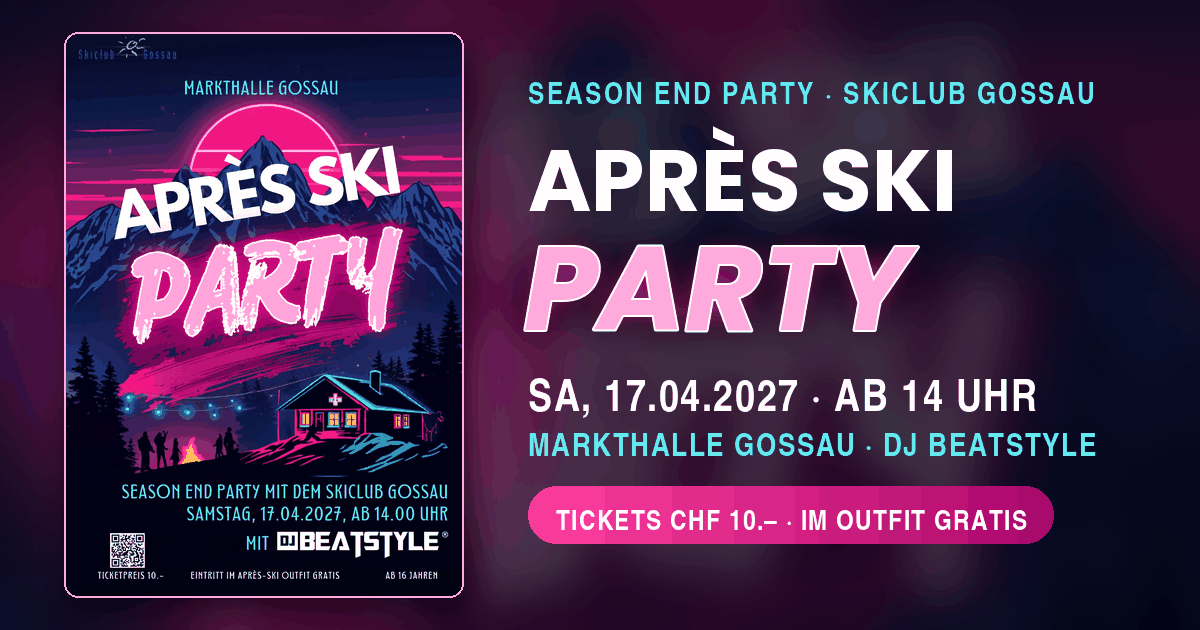
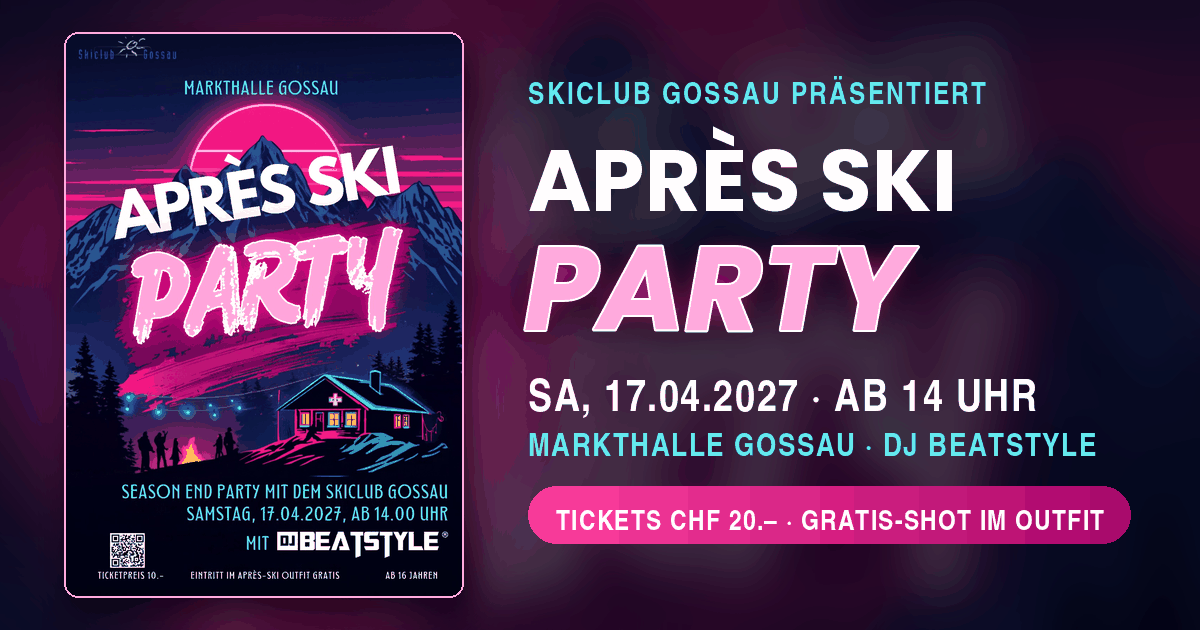
Update party website content and assets

diff --git a/index.html b/index.html
@@ -4,11 +4,11 @@
   <meta charset="UTF-8">
   <meta name="viewport" content="width=device-width, initial-scale=1.0, viewport-fit=cover">
   <title>Après-Ski Party Gossau | 17. April 2027</title>
-  <meta name="description" content="Season End Après-Ski Party des Skiclub Gossau am Samstag, 17. April 2027, ab 14 Uhr in der Markthalle Gossau. Mit DJ Beatstyle. Tickets CHF 10.–, im Après-Ski-Outfit gratis.">
+  <meta name="description" content="Après-Ski Party des Skiclub Gossau am Samstag, 17. April 2027, ab 14 Uhr in der Markthalle Gossau. Mit DJ Beatstyle. Tickets CHF 20.–, Gratis-Shot im Après-Ski-Outfit.">
   <link rel="canonical" href="https://apresskipartygossau.ch/">
   <meta property="og:type" content="website">
   <meta property="og:title" content="Après-Ski Party Gossau | 17. April 2027">
-  <meta property="og:description" content="Season End Party mit dem Skiclub Gossau: Sa, 17.04.2027, ab 14 Uhr, Markthalle Gossau. Mit DJ Beatstyle. Tickets CHF 10.–, im Après-Ski-Outfit gratis.">
+  <meta property="og:description" content="Après-Ski Party mit dem Skiclub Gossau: Sa, 17.04.2027, ab 14 Uhr, Markthalle Gossau. Mit DJ Beatstyle. Tickets CHF 20.–, Gratis-Shot im Après-Ski-Outfit.">
   <meta property="og:url" content="https://apresskipartygossau.ch/">
   <meta property="og:locale" content="de_CH">
   <meta property="og:image" content="https://apresskipartygossau.ch/share-image.png">
@@ -21,8 +21,8 @@
   {
     "@context": "https://schema.org",
     "@type": "Event",
-    "name": "Après-Ski Party Gossau – Season End Party",
-    "description": "Season End Après-Ski Party des Skiclub Gossau mit DJ Beatstyle in der Markthalle Gossau. Im kompletten Après-Ski-Outfit ist der Eintritt gratis.",
+    "name": "Après-Ski Party Gossau",
+    "description": "Après-Ski Party des Skiclub Gossau mit DJ Beatstyle in der Markthalle Gossau. Wer im Après-Ski-Outfit kommt, erhält einen Gratis-Shot.",
     "startDate": "2027-04-17T14:00:00+02:00",
     "endDate": "2027-04-18T01:00:00+02:00",
     "eventStatus": "https://schema.org/EventScheduled",
@@ -54,7 +54,7 @@
     },
     "offers": {
       "@type": "Offer",
-      "price": "10",
+      "price": "20",
       "priceCurrency": "CHF",
       "availability": "https://schema.org/InStock",
       "url": "https://eventfrog.ch/de/p/partys/disco/season-end-party-skiclub-gossau-gossau-7510725504757988831.html"
@@ -147,7 +147,7 @@
       </h1>
     </div>
 
-    <p class="hero-sub">Season End Party mit dem Skiclub Gossau</p>
+    <p class="hero-sub">Präsentiert vom Skiclub Gossau</p>
     <p class="hero-when"><time datetime="2027-04-17T14:00">Samstag, 17.04.2027, <strong>ab 14.00 Uhr</strong></time></p>
     <p class="hero-dj"><span>mit</span><img class="hero-dj-logo" decoding="async" width="1724" height="266" src="dj-beatstyle-logo.svg" alt="DJ Beatstyle"></p>
 
@@ -156,8 +156,8 @@
     </div>
 
     <ul class="hero-facts">
-      <li>Ticket <strong>CHF 10.–</strong></li>
-      <li>Im Après-Ski-Outfit <strong>gratis</strong></li>
+      <li>Ticket <strong>CHF 20.–</strong></li>
+      <li><strong>Gratis-Shot</strong> im Après-Ski-Outfit</li>
       <li><strong>Ab 16</strong> Jahren</li>
     </ul>
   </div>
@@ -188,15 +188,6 @@
         <div class="sponsor-card">
           <img decoding="async" loading="lazy" width="440" height="141" src="sponsoren/horber-innenausbau.png" alt="Horber Innenausbau, Gossau">
         </div>
-        <div class="sponsor-card"><span class="sponsor-logo">SPONSOR<br>2</span></div>
-        <div class="sponsor-card"><span class="sponsor-logo">SPONSOR<br>3</span></div>
-        <div class="sponsor-card"><span class="sponsor-logo">SPONSOR<br>4</span></div>
-        <div class="sponsor-card"><span class="sponsor-logo">SPONSOR<br>5</span></div>
-        <div class="sponsor-card"><span class="sponsor-logo">SPONSOR<br>6</span></div>
-        <div class="sponsor-card"><span class="sponsor-logo">SPONSOR<br>7</span></div>
-        <div class="sponsor-card"><span class="sponsor-logo">SPONSOR<br>8</span></div>
-        <div class="sponsor-card"><span class="sponsor-logo">SPONSOR<br>9</span></div>
-        <div class="sponsor-card"><span class="sponsor-logo">SPONSOR<br>10</span></div>
       </div>
       <p class="sponsor-note">Interessiert an einem Sponsoring? Melde dich unter <a href="mailto:medien@skiclub-gossau.ch">medien@skiclub-gossau.ch</a>.</p>
     </div>
@@ -206,14 +197,14 @@
     <div class="wrap">
       <div class="reveal">
         <div class="title-bar"></div>
-        <div class="eyebrow">Season End Party</div>
+        <div class="eyebrow">Après-Ski Party</div>
         <h2 class="section-title">Alle Infos auf<br>einen Blick.</h2>
       </div>
 
       <div class="event-details reveal">
         <div class="detail"><div class="detail-label">Datum</div><div class="detail-value">Sa, 17.04.2027</div></div>
         <div class="detail"><div class="detail-label">Zeit</div><div class="detail-value">14:00 – 01:00</div></div>
-        <div class="detail"><div class="detail-label">Eintritt</div><div class="detail-value">CHF 10.–</div><div class="detail-note">Im Après-Ski-Outfit gratis</div></div>
+        <div class="detail"><div class="detail-label">Eintritt</div><div class="detail-value">CHF 20.–</div><div class="detail-note">Gratis-Shot im Après-Ski-Outfit</div></div>
       </div>
 
       <div class="map-section reveal" id="location">
@@ -256,7 +247,7 @@
                  src="flyer/apres-ski-party-2027-flyer-800.jpg"
                  srcset="flyer/apres-ski-party-2027-flyer-800.jpg 800w, flyer/apres-ski-party-2027-flyer.jpg 1131w"
                  sizes="(max-width: 820px) min(360px, 90vw), 400px"
-                 alt="Flyer: Après Ski Party – Season End Party mit dem Skiclub Gossau, Samstag, 17.04.2027, ab 14.00 Uhr, Markthalle Gossau, mit DJ Beatstyle. Ticketpreis 10.–, Eintritt im Après-Ski-Outfit gratis, ab 16 Jahren.">
+                 alt="Flyer der Après-Ski Party Gossau: Samstag, 17.04.2027, ab 14.00 Uhr, Markthalle Gossau, mit DJ Beatstyle.">
           </a>
           <figcaption>Zum Vergrössern aufs Bild tippen</figcaption>
         </figure>
@@ -295,8 +286,8 @@
         <img loading="lazy" decoding="async" class="ticket-emblem" src="party-emblem.svg" width="130" height="130" alt="">
         <div class="eyebrow">Samstag, 17. April 2027 · Markthalle Gossau</div>
         <h2 class="section-title">Dein Ticket<br><span class="brush">wartet.</span></h2>
-        <p class="ticket-price">CHF 10.–<small>Ticketpreis</small></p>
-        <p class="ticket-free">Im kompletten Après-Ski-Outfit: Eintritt gratis!</p>
+        <p class="ticket-price">CHF 20.–<small>Ticketpreis</small></p>
+        <p class="ticket-free">Im Après-Ski-Outfit gibt’s einen Gratis-Shot!</p>
         <p class="ticket-note">Zutritt ab 16 Jahren. Die Platzzahl ist begrenzt – sichere dir dein Ticket frühzeitig.</p>
         <a class="btn btn-light" href="https://eventfrog.ch/de/p/partys/disco/season-end-party-skiclub-gossau-gossau-7510725504757988831.html" target="_blank" rel="noopener">Tickets auf Eventfrog →</a>
       </div>
@@ -312,11 +303,11 @@
       <div class="faq-list">
         <details>
           <summary>Wie komme ich an Tickets?</summary>
-          <p class="faq-answer">Tickets gibt es online über Eventfrog (Button im Ticket-Bereich weiter oben oder QR-Code auf dem Flyer). Ein Ticket kostet CHF 10.–.</p>
+          <p class="faq-answer">Tickets gibt es online über Eventfrog (Button im Ticket-Bereich weiter oben oder QR-Code auf dem Flyer). Ein Ticket kostet CHF 20.–.</p>
         </details>
         <details>
-          <summary>Komme ich im Après-Ski-Outfit wirklich gratis rein?</summary>
-          <p class="faq-answer">Ja! Wer im kompletten Après-Ski-Outfit erscheint, hat freien Eintritt. Ohne Outfit kostet der Eintritt CHF 10.–.</p>
+          <summary>Was bekomme ich, wenn ich im Après-Ski-Outfit komme?</summary>
+          <p class="faq-answer">Einen Gratis-Shot! Wer im Après-Ski-Outfit erscheint, bekommt einen Shot offeriert. Der Eintritt kostet für alle CHF 20.–. Shots mit Spirituosen gibt es gemäss Jugendschutz erst ab 18 Jahren.</p>
         </details>
         <details>
           <summary>Ab welchem Alter komme ich rein?</summary>

diff --git a/css/style.css b/css/style.css
@@ -33,7 +33,7 @@
 }
 
 *{box-sizing:border-box}
-html{scroll-behavior:smooth;scroll-padding-top:86px}
+html{scroll-behavior:smooth;scroll-padding-top:86px;overflow-x:hidden}
 body{
   margin:0;background:var(--night);color:var(--white);
   font-family:var(--font-body);line-height:1.6;
@@ -345,7 +345,7 @@ h2.section-title,.section-title{
 
 /* ---------- Event ---------- */
 .event-details{
-  display:grid;grid-template-columns:repeat(3,1fr);gap:1px;text-align:center;
+  display:grid;grid-template-columns:repeat(3,minmax(0,1fr));gap:1px;text-align:center;
   background:var(--line);border:1px solid var(--line);border-radius:var(--radius);overflow:hidden
 }
 .detail{background:var(--night-2);padding:26px 22px}
@@ -353,7 +353,7 @@ h2.section-title,.section-title{
 .detail-value{font-family:var(--font-display);font-size:clamp(19px,2.2vw,24px);font-weight:800;margin-top:6px;line-height:1.2}
 .detail-note{font-size:13px;font-weight:600;color:var(--pink-soft);margin-top:4px;line-height:1.35}
 
-.map-section{display:grid;grid-template-columns:1fr 1fr;gap:35px;align-items:stretch;margin-top:22px}
+.map-section{display:grid;grid-template-columns:minmax(0,1fr) minmax(0,1fr);gap:35px;align-items:stretch;margin-top:22px}
 .map-info p{color:var(--muted);margin:12px 0}
 .map-container{
   width:100%;height:100%;min-height:380px;border:1px solid var(--line);border-radius:var(--radius);
@@ -385,7 +385,7 @@ h2.section-title,.section-title{
 
 /* ---------- Flyer ---------- */
 .flyer{
-  display:grid;grid-template-columns:minmax(0,400px) 1fr;gap:clamp(28px,5vw,64px);align-items:center;
+  display:grid;grid-template-columns:minmax(0,400px) minmax(0,1fr);gap:clamp(28px,5vw,64px);align-items:center;
   margin-top:clamp(48px,8vw,90px);padding:clamp(24px,4.5vw,52px);border-radius:24px;
   background:
     radial-gradient(circle at 18% 30%,rgba(255,46,147,.2),transparent 55%),
@@ -427,7 +427,8 @@ h2.section-title,.section-title{
 @media(max-width:600px){.lightbox-close{top:8px;right:8px}}
 
 /* ---------- DJ ---------- */
-.dj{display:grid;grid-template-columns:1fr auto;gap:38px;align-items:center}
+.dj{display:grid;grid-template-columns:minmax(0,1fr) auto;gap:38px;align-items:center}
+.dj > *,.map-section > *,.club-cta > *,.flyer > *,.event-details > *{min-width:0}
 .dj-title img{display:block;width:clamp(230px,32vw,400px);height:auto;margin:6px 0 4px;
   filter:drop-shadow(0 0 18px rgba(255,46,147,.35))}
 .dj-photo-wrap{
@@ -490,7 +491,7 @@ h2.section-title,.section-title{
     radial-gradient(circle at 85% 20%,rgba(255,46,147,.13),transparent 45%),
     linear-gradient(180deg,#0b0d36,var(--night))
 }
-.club-cta{display:grid;grid-template-columns:1fr auto;gap:38px;align-items:center}
+.club-cta{display:grid;grid-template-columns:minmax(0,1fr) auto;gap:38px;align-items:center}
 .club-cta-logo{
   width:210px;height:auto;display:block;background:#fff;border-radius:14px;
   padding:14px 16px;box-shadow:0 10px 30px rgba(0,0,0,.3),0 0 40px rgba(255,46,147,.18)
@@ -499,16 +500,17 @@ h2.section-title,.section-title{
 .club-cta .section-lead{margin-bottom:0}
 
 /* ---------- Sponsoren ---------- */
-.sponsor-grid{display:grid;grid-template-columns:repeat(auto-fit,minmax(165px,1fr));gap:16px}
+.sponsor-grid{display:flex;flex-wrap:wrap;gap:16px}
 .sponsor-card{
+  flex:0 1 240px;min-width:0;
   display:flex;align-items:center;justify-content:center;text-align:center;
-  aspect-ratio:1.5/1;background:var(--white);border-radius:12px;padding:14px;
+  aspect-ratio:2/1;background:var(--white);border-radius:14px;padding:18px 22px;
   box-shadow:0 6px 18px rgba(0,0,0,.25);transition:.2s;border:2px solid transparent
 }
 .sponsor-card:hover{transform:translateY(-4px);box-shadow:0 12px 30px rgba(255,46,147,.35);
   border-color:var(--pink-hot)}
-.sponsor-card img{max-width:100%;max-height:100%;object-fit:contain;display:block}
-.sponsor-logo{color:var(--night);font-weight:800;font-size:13px;letter-spacing:.06em;line-height:1.3}
+.sponsor-card:only-child{flex-basis:320px}
+.sponsor-card img{display:block;width:auto;height:auto;max-width:100%;max-height:100%;min-width:0;object-fit:contain}
 .sponsor-note{margin-top:30px;color:var(--muted);font-size:14px}
 .sponsor-note a{text-decoration:underline;color:var(--cyan)}
 
@@ -609,7 +611,7 @@ footer{padding:36px 0;border-top:1px solid var(--line);color:var(--muted);font-s
   .nav-overlay.open{display:block}
 }
 @media(max-width:820px){
-  .flyer{grid-template-columns:1fr;text-align:center}
+  .flyer{grid-template-columns:minmax(0,1fr);text-align:center}
   .flyer-figure{max-width:360px;width:100%;margin:0 auto}
   .flyer-text .title-bar{margin-left:auto;margin-right:auto}
   .flyer-text .section-lead{margin-left:auto;margin-right:auto}
@@ -617,14 +619,17 @@ footer{padding:36px 0;border-top:1px solid var(--line);color:var(--muted);font-s
 }
 @media(max-width:750px){
   html{scroll-padding-top:72px}
-  .dj,.map-section,.club-cta{grid-template-columns:1fr}
+  .dj,.map-section,.club-cta{grid-template-columns:minmax(0,1fr)}
+  .dj-photo-wrap{width:100%}
   .dj-photo-wrap img{max-height:none;width:100%}
   .club-cta-logo{width:170px}
   .page-header{padding:120px 0 36px}
   .map-container{height:auto;min-height:0;aspect-ratio:4/3}
   .footer-inner{flex-direction:column;align-items:flex-start}
   .cookie-inner{flex-direction:column;align-items:flex-start}
-  .sponsor-grid{grid-template-columns:repeat(2,1fr);gap:12px}
+  .sponsor-grid{gap:12px}
+  .sponsor-card{flex:1 1 calc(50% - 6px)}
+  .sponsor-card:only-child{flex:1 1 100%;max-width:360px}
   .detail{padding:20px 16px}
 }
 @media(max-width:520px){
@@ -636,5 +641,5 @@ footer{padding:36px 0;border-top:1px solid var(--line);color:var(--muted);font-s
   .faq-answer{padding-right:0}
 }
 @media(max-width:600px){
-  .event-details{grid-template-columns:1fr}
+  .event-details{grid-template-columns:minmax(0,1fr)}
 }

diff --git a/js/main.js b/js/main.js
@@ -109,7 +109,7 @@
     shareBtn.addEventListener("click", function () {
       var data = {
         title: "Après-Ski Party Gossau – 17.04.2027",
-        text: "Season End Party mit dem Skiclub Gossau – Sa, 17.04.2027, ab 14 Uhr, Markthalle Gossau. Im Après-Ski-Outfit gratis!",
+        text: "Après-Ski Party mit dem Skiclub Gossau – Sa, 17.04.2027, ab 14 Uhr, Markthalle Gossau. Gratis-Shot im Après-Ski-Outfit!",
         url: location.origin && location.origin !== "null" ? location.origin + location.pathname : undefined
       };
       var flyerUrl = "flyer/apres-ski-party-2027-flyer.jpg";

diff --git a/README.md b/README.md
@@ -94,15 +94,14 @@ Folgende Platzhalter unbedingt vor dem Live-Schalten ersetzen:
    Adress- und Telefonzeilen des Inserats). Eine Website ist dort nicht
    bekannt, deshalb ist diese Karte noch nicht verlinkt – sobald eine URL
    vorliegt, das `<div class="sponsor-card">` gemäss Kommentar im Code durch
-   ein `<a …>` ersetzen. Für die übrigen Karten:
-   - Logo-Datei in einen neuen Ordner `sponsoren/` legen (idealerweise PNG
-     mit transparentem Hintergrund, quadratisch/querformatig).
-   - Im `<a class="sponsor-card" ...>`-Tag den `href="#"` durch die echte
-     Website-URL des Sponsors ersetzen (inkl. `https://`).
-   - Innerhalb des `<a>`-Tags `<span class="sponsor-logo">SPONSOR 1</span>`
-     durch `<img src="sponsoren/logo1.png" alt="Name des Sponsors">` ersetzen.
-   - Werden weniger als 10 Sponsoren gebraucht, überzählige `<a class="sponsor-card">…</a>`-Blöcke
-     einfach löschen; das Raster passt sich automatisch an.
+   ein `<a …>` ersetzen. Weitere Sponsoren hinzufügen:
+   - Logo-Datei in den Ordner `sponsoren/` legen (idealerweise PNG mit
+     transparentem Hintergrund, querformatig).
+   - In `index.html` im Block `sponsor-grid` eine weitere Karte nach dem
+     Muster im Kommentar einfügen (mit Website als `<a class="sponsor-card" …>`,
+     ohne Website als `<div class="sponsor-card">`).
+   - Das Layout passt sich automatisch an: ein einzelner Sponsor erscheint
+     als grosse Karte, mehrere Sponsoren auf dem Handy zu zweit nebeneinander.
 
 6. **Strukturierte Event-Daten** – in `index.html` steht im Kopfbereich ein
    `application/ld+json`-Block mit Datum, Ort, Preis und Veranstalter (damit
